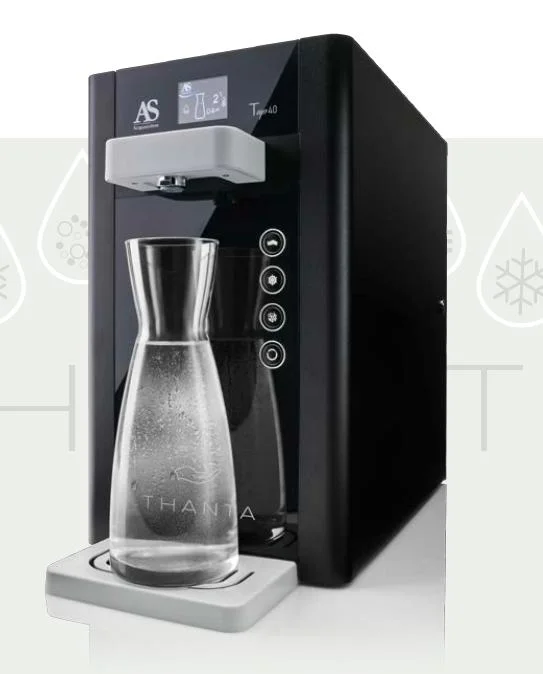
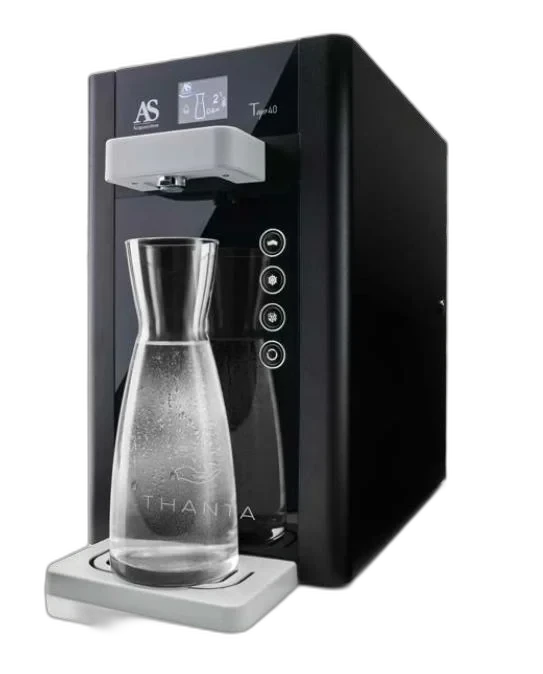
Rimuovi sfondo Thanta e T40 Totem con rembg, aggiorna container trasparenti

diff --git a/prodotti.html b/prodotti.html
@@ -359,7 +359,7 @@
             <div class="grid grid-cols-1 sm:grid-cols-2 lg:grid-cols-3 gap-6">
 
                 <div id="thanta" class="bg-surface rounded-[28px] p-7 hover:shadow-xl hover:-translate-y-1 transition-all duration-300 flex flex-col">
-                    <div class="h-48 flex items-center justify-center mb-5 bg-white rounded-2xl">
+                    <div class="h-48 flex items-center justify-center mb-5">
                         <img src="thanta.webp" class="max-h-full object-contain p-4" alt="Linea Thanta" onerror="this.src='https://placehold.co/400x300/e2e8f0/475569?text=Linea+Thanta'">
                     </div>
                     <h3 class="text-xl font-semibold text-ink">LINEA THANTA</h3>
@@ -379,7 +379,7 @@
                 </div>
 
                 <div id="t40" class="bg-surface rounded-[28px] p-7 hover:shadow-xl hover:-translate-y-1 transition-all duration-300 flex flex-col">
-                    <div class="h-48 flex items-center justify-center mb-5 bg-white rounded-2xl">
+                    <div class="h-48 flex items-center justify-center mb-5">
                         <img src="t40-totem.webp" class="max-h-full object-contain p-4" alt="T40 Totem" onerror="this.src='https://placehold.co/400x300/e2e8f0/475569?text=T40+Totem'">
                     </div>
                     <h3 class="text-xl font-semibold text-ink">T40 TOTEM</h3>

diff --git a/index.html b/index.html
@@ -419,7 +419,7 @@
                 </div>
 
                 <div style="flex:1; background:#f5f5f7; border-radius:28px; overflow:hidden; min-width:220px;">
-                    <div style="height:220px; background:#ffffff; display:flex; align-items:center; justify-content:center;">
+                    <div style="height:220px; background:transparent; display:flex; align-items:center; justify-content:center;">
                         <img src="thanta.webp" alt="Linea Thanta" width="180" height="190" style="width:auto; height:auto; max-width:180px; max-height:190px; object-fit:contain; display:block;">
                     </div>
                     <div style="padding:1.5rem;">